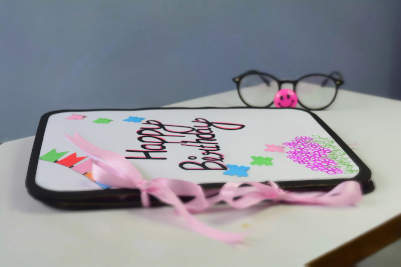
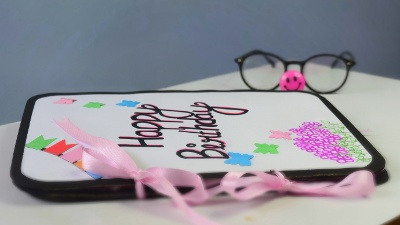
image are change into their respected ratio

diff --git a/about.html b/about.html
@@ -114,10 +114,11 @@
               <h4>Who we are &amp; What we do?</h4>
               <p>Lorem ipsum dolor sit amet, consectetur adipisicing elit. Sed voluptate nihil eum consectetur similique? Consectetur, quod, incidunt, harum nisi dolores delectus reprehenderit voluptatem perferendis dicta dolorem non blanditiis ex fugiat. Lorem ipsum dolor sit amet, consectetur adipisicing elit.<br><br>Lorem ipsum dolor sit amet, consectetur adipisicing elit. Et, consequuntur, modi mollitia corporis ipsa voluptate corrupti eum ratione ex ea praesentium quibusdam? Aut, in eum facere corrupti necessitatibus perspiciatis quis.</p>
               <ul class="social-icons">
-                <li><a href="#"><i class="fa fa-whatsapp"></i></a></li>
-                <li><a href="#"><i class="fa fa-facebook"></i></a></li>
-                <li><a href="#"><i class="fa fa-instagram"></i></a></li>
-                <li><a href="#"><i class="fa fa-youtube"></i></a></li>
+                <li><a href="https://wa.me/918700911675?text=Hello%2C%0AI%20am%20interested%20in%20your%20products.%20I%20would%20like%20to%20know%20more%20about%20it."><i class="fa fa-whatsapp"></i></a></li>
+                <li><a href="https://www.facebook.com/The-Gift-Paper-102487198214847/"><i class="fa fa-facebook"></i></a></li>
+                <li><a href="https://www.instagram.com/the_gift_paper"><i class="fa fa-instagram"></i></a></li>
+                <li><a href="#"><i class="fa fa-pinterest"></i></a></li>
+                 <li><a href="#"><i class="fa fa-youtube"></i></a></li>
               </ul>
             </div>
           </div>
@@ -138,16 +139,6 @@
             <div class="team-member">
               <div class="thumb-container">
                 <img src="assets/images/team_01.jpg" alt="">
-                <div class="hover-effect">
-                  <div class="hover-content">
-                    <ul class="social-icons">
-                      <li><a href="#"><i class="fa fa-facebook"></i></a></li>
-                      <li><a href="#"><i class="fa fa-twitter"></i></a></li>
-                      <li><a href="#"><i class="fa fa-linkedin"></i></a></li>
-                      <li><a href="#"><i class="fa fa-behance"></i></a></li>
-                    </ul>
-                  </div>
-                </div>
               </div>
               <div class="down-content">
                 <h4>Om Thapa</h4>
@@ -160,16 +151,7 @@
             <div class="team-member">
               <div class="thumb-container">
                 <img src="assets/images/team_02.jpg" alt="">
-                <div class="hover-effect">
-                  <div class="hover-content">
-                    <ul class="social-icons">
-                      <li><a href="#"><i class="fa fa-facebook"></i></a></li>
-                      <li><a href="#"><i class="fa fa-twitter"></i></a></li>
-                      <li><a href="#"><i class="fa fa-linkedin"></i></a></li>
-                      <li><a href="#"><i class="fa fa-behance"></i></a></li>
-                    </ul>
-                  </div>
-                </div>
+                
               </div>
               <div class="down-content">
                 <h4>Mamta Gupta</h4>
@@ -184,16 +166,6 @@
             <div class="team-member">
               <div class="thumb-container">
                 <img src="assets/images/team_03.jpg" alt="">
-                <div class="hover-effect">
-                  <div class="hover-content">
-                    <ul class="social-icons">
-                      <li><a href="#"><i class="fa fa-facebook"></i></a></li>
-                      <li><a href="#"><i class="fa fa-twitter"></i></a></li>
-                      <li><a href="#"><i class="fa fa-linkedin"></i></a></li>
-                      <li><a href="#"><i class="fa fa-behance"></i></a></li>
-                    </ul>
-                  </div>
-                </div>
               </div>
               <div class="down-content">
                 <h4>Deepak</h4>
@@ -203,76 +175,6 @@
             </div>
           </div>
           
-          <!--
-          <div class="col-md-4">
-            <div class="team-member">
-              <div class="thumb-container">
-                <img src="assets/images/team_04.jpg" alt="">
-                <div class="hover-effect">
-                  <div class="hover-content">
-                    <ul class="social-icons">
-                      <li><a href="#"><i class="fa fa-facebook"></i></a></li>
-                      <li><a href="#"><i class="fa fa-twitter"></i></a></li>
-                      <li><a href="#"><i class="fa fa-linkedin"></i></a></li>
-                      <li><a href="#"><i class="fa fa-behance"></i></a></li>
-                    </ul>
-                  </div>
-                </div>
-              </div>
-              <div class="down-content">
-                <h4>Mary Cool</h4>
-                <span>Product Specialist</span>
-                <p>Lorem ipsum dolor sit amet, consectetur adipisicing itaque corporis nulla.</p>
-              </div>
-            </div>
-          </div>
-          <div class="col-md-4">
-            <div class="team-member">
-              <div class="thumb-container">
-                <img src="assets/images/team_05.jpg" alt="">
-                <div class="hover-effect">
-                  <div class="hover-content">
-                    <ul class="social-icons">
-                      <li><a href="#"><i class="fa fa-facebook"></i></a></li>
-                      <li><a href="#"><i class="fa fa-twitter"></i></a></li>
-                      <li><a href="#"><i class="fa fa-linkedin"></i></a></li>
-                      <li><a href="#"><i class="fa fa-behance"></i></a></li>
-                    </ul>
-                  </div>
-                </div>
-              </div>
-              <div class="down-content">
-                <h4>George Walker</h4>
-                <span>Product Photographer</span>
-                <p>Lorem ipsum dolor sit amet, consectetur adipisicing itaque corporis nulla.</p>
-              </div>
-            </div>
-          </div>
-          <div class="col-md-4">
-            <div class="team-member">
-              <div class="thumb-container">
-                <img src="assets/images/team_06.jpg" alt="">
-                <div class="hover-effect">
-                  <div class="hover-content">
-                    <ul class="social-icons">
-                      <li><a href="#"><i class="fa fa-facebook"></i></a></li>
-                      <li><a href="#"><i class="fa fa-twitter"></i></a></li>
-                      <li><a href="#"><i class="fa fa-linkedin"></i></a></li>
-                      <li><a href="#"><i class="fa fa-behance"></i></a></li>
-                    </ul>
-                  </div>
-                </div>
-              </div>
-              
-              
-              <div class="down-content">
-                <h4>Kate wilson</h4>
-                <span>General Manager</span>
-                <p>Lorem ipsum dolor sit amet, consectetur adipisicing itaque corporis nulla.</p>
-              </div>
-            </div>
-          </div>
-        -->
         </div>
       </div>
     </div>

diff --git a/product.html b/product.html
@@ -112,7 +112,7 @@
                 <div class="row grid">
                     <div class="col-lg-4 col-md-4 all des">
                       <div class="product-item">
-                        <a href="products/the-collage-book.html"><img src="assets/images/product_7.jpg" alt=""></a>
+                        <a href="products/the-collage-book.html"><img src="assets/images/product_10.jpg" alt=""></a>
                         <div class="down-content">
                           <a href="products/the-collage-book.html"><h4>The Collage Book</h4></a>
                          
@@ -132,7 +132,7 @@
                     </div>
                     <div class="col-lg-4 col-md-4 all dev">
                       <div class="product-item">
-                        <a href="products/scrap-book.html"><img src="assets/images/product_8.jpg" alt=""></a>
+                        <a href="products/scrap-book.html"><img src="assets/images/product_11.jpg" alt=""></a>
                         <div class="down-content">
                           <a href="products/scrap-book.html"><h4>The Scrap Book</h4></a>
                          
@@ -172,7 +172,7 @@
                     </div>
                     <div class="col-lg-4 col-md-4 all gra">
                       <div class="product-item">
-                        <a href="products/photo-box.html"><img src="assets/images/product_9.jpg" alt=""></a>
+                        <a href="products/photo-box.html"><img src="assets/images/comingsoon2.jpg" alt=""></a>
                         <div class="down-content">
                           <a href="products/photo-box.html"><h4>Photo Box</h4></a>
                          
@@ -192,7 +192,7 @@
                     </div>
                     <div class="col-lg-4 col-md-4 all dev">
                       <div class="product-item">
-                        <a href="#"><img src="assets/images/product_10.jpg" alt=""></a>
+                        <a href="#"><img src="assets/images/comingsoon1.jpg" alt=""></a>
                         <div class="down-content">
                           <a href="#"><h4>Magic Book</h4></a>
                           

diff --git a/contact.html b/contact.html
@@ -123,11 +123,12 @@
             <div class="left-content">
               <h4>About our office</h4>
               <p>Lorem ipsum dolor sit amet, consectetur adipisic elit. Sed voluptate nihil eumester consectetur similiqu consectetur.<br><br>Lorem ipsum dolor sit amet, consectetur adipisic elit. Et, consequuntur, modi mollitia corporis ipsa voluptate corrupti.</p>
-              <ul class="social-icons">
-                <li><a href="#"><i class="fa fa-whatsapp"></i></a></li>
-                <li><a href="#"><i class="fa fa-facebook"></i></a></li>
-                <li><a href="#"><i class="fa fa-instagram"></i></a></li>
-                <li><a href="#"><i class="fa fa-youtube"></i></a></li>
+             <ul class="social-icons">
+                <li><a href="https://wa.me/918700911675?text=Hello%2C%0AI%20am%20interested%20in%20your%20products.%20I%20would%20like%20to%20know%20more%20about%20it."><i class="fa fa-whatsapp"></i></a></li>
+                <li><a href="https://www.facebook.com/The-Gift-Paper-102487198214847/"><i class="fa fa-facebook"></i></a></li>
+                <li><a href="https://www.instagram.com/the_gift_paper"><i class="fa fa-instagram"></i></a></li>
+                <li><a href="#"><i class="fa fa-pinterest"></i></a></li>
+                 <li><a href="#"><i class="fa fa-youtube"></i></a></li>
               </ul>
             </div>
           </div>

diff --git a/index.html b/index.html
@@ -124,7 +124,7 @@
           </div>
           <div class="col-md-4">
             <div class="product-item">
-              <a href="products/the-collage-book.html"><img src="assets/images/product_9.jpg" alt=""></a>
+              <a href="products/the-collage-book.html"><img src="assets/images/product_10.jpg" alt=""></a>
               <div class="down-content">
                 <a href="products/the-collage-book.html"><h4>The Collage Book</h4></a>
                
@@ -144,7 +144,7 @@
           </div>
           <div class="col-md-4">
             <div class="product-item">
-              <a href="products/scrap-book.html"><img src="assets/images/product_9.jpg" alt=""></a>
+              <a href="products/scrap-book.html"><img src="assets/images/product_11.jpg" alt=""></a>
               <div class="down-content">
                 <a href="products/scrap-book.html"><h4>Scrap Book</h4></a>
                
